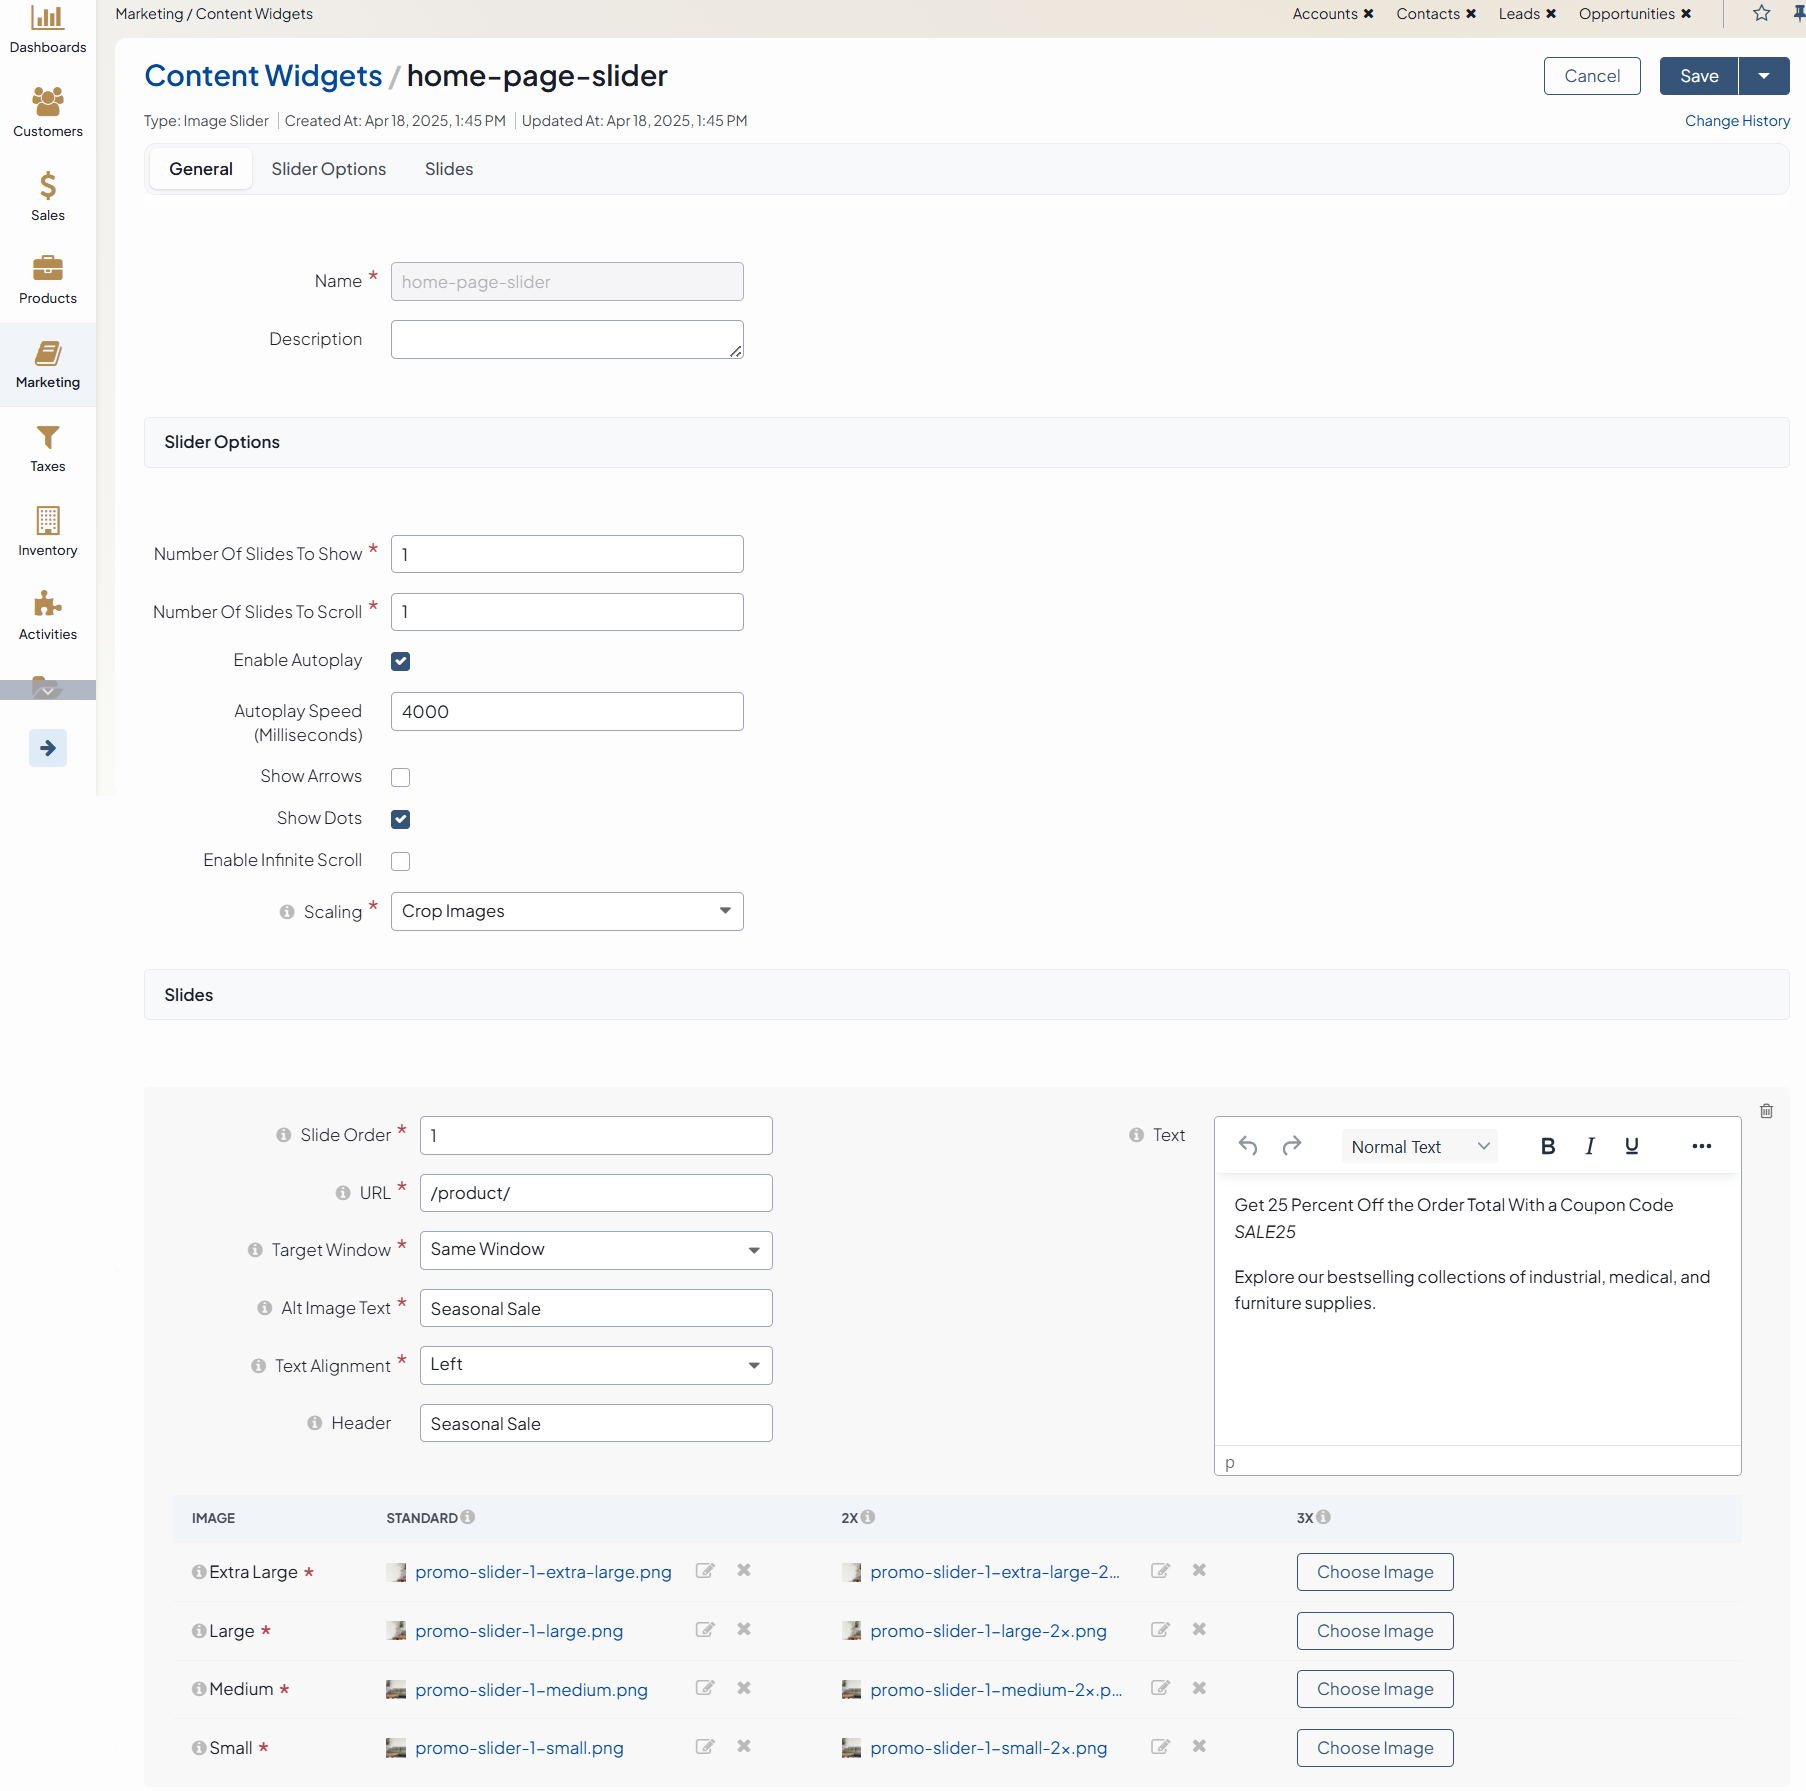
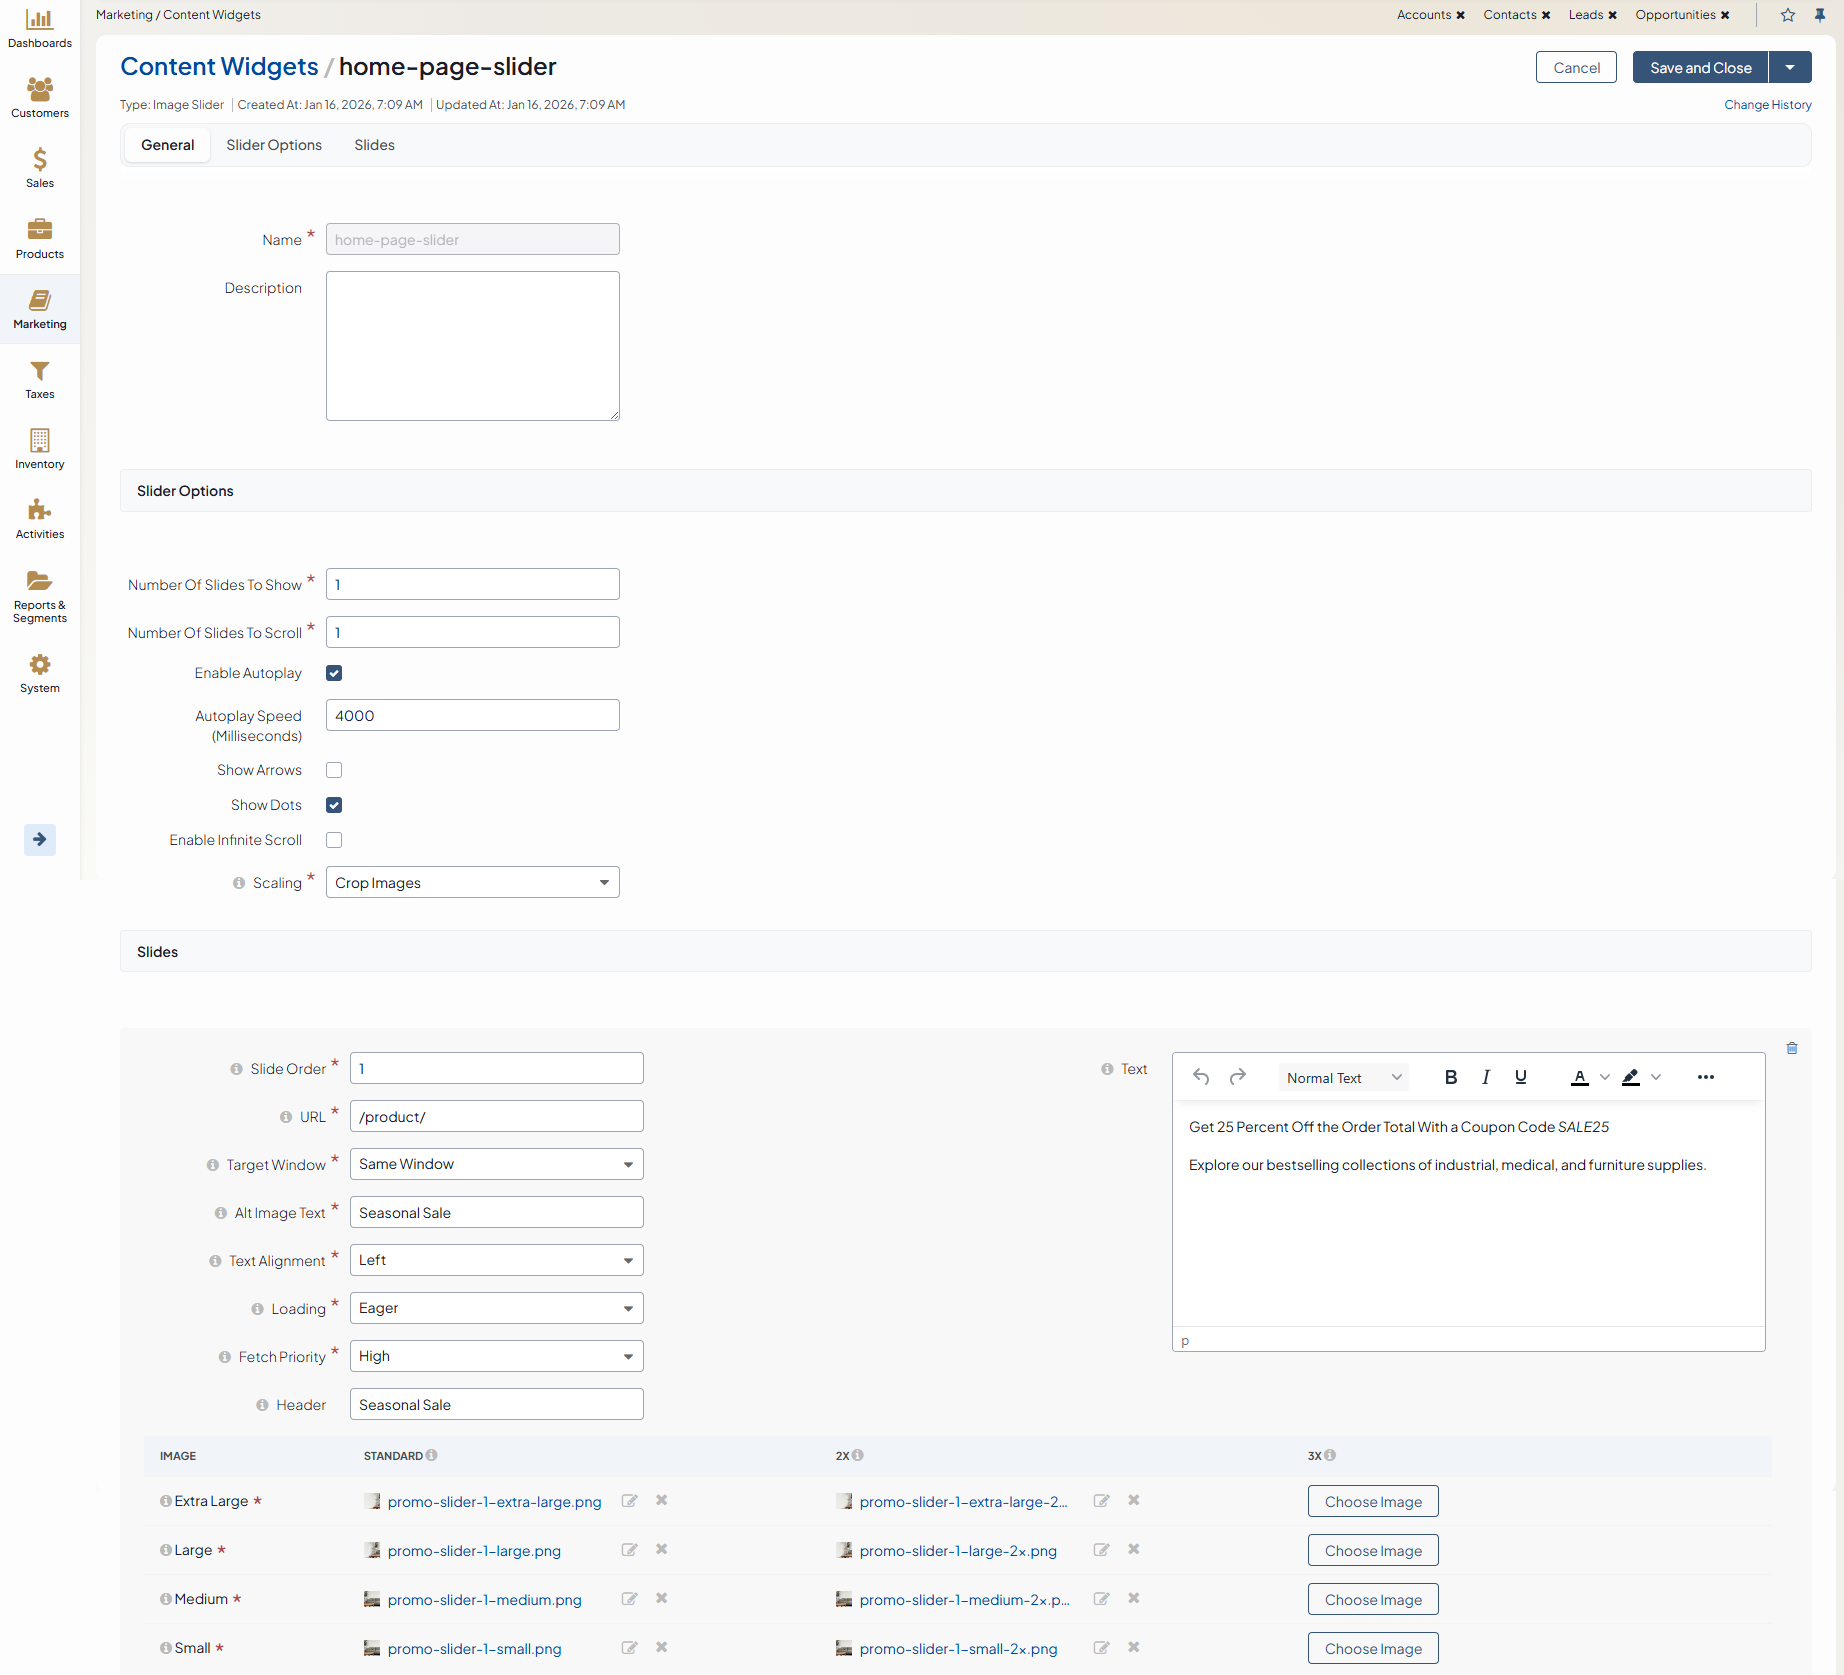
DOC-2458: Cover the new options for Image Slider Loading

diff --git a/user/back-office/marketing/content-widgets/index.rst b/user/back-office/marketing/content-widgets/index.rst
@@ -56,9 +56,10 @@ To create a new content widget:
 
 * **Image Slider** - Enables you to add an image slider with multiple images, configure slider options and style each slide. To configure the image slider, you can select the number of slides to show or scroll, enable or disable autoplay and control its speed in milliseconds, select whether to display dots and/or arrows at the bottom of the image slider in the storefront, control how the slide images are positioned and scaled, and enable or disable infinite scroll. To add slides, click **Add** at the bottom of the *Slides* section. You can customize each slide by setting its sort order, URL, target window, ALT text, text alignment, header and text for the image. You can choose different image sizes based on screen size (extra large, large, medium, small).
 
+  In addition, you can control how each slide's image loads using the **Loading** and **Fetch Priority** options. **Loading** defines when the image is loaded (*Lazy* or *Eager*), while **Fetch Priority** defines its importance for page load (*Auto*, *High*, or *Low*). Use *Eager* and *High* for images that are visible immediately when the page opens. Prefer *Lazy* with *Auto* or *Low* for images shown after sliding or placed lower on the page.
+
 .. image:: /user/img/marketing/content_widgets/image_slider_1.png
    :alt: Image slider content widget form
-
 
 * **Product Mini Block** - Enables you to add a block with product information with or without prices and/or the **Add to Shopping List** button.
 
